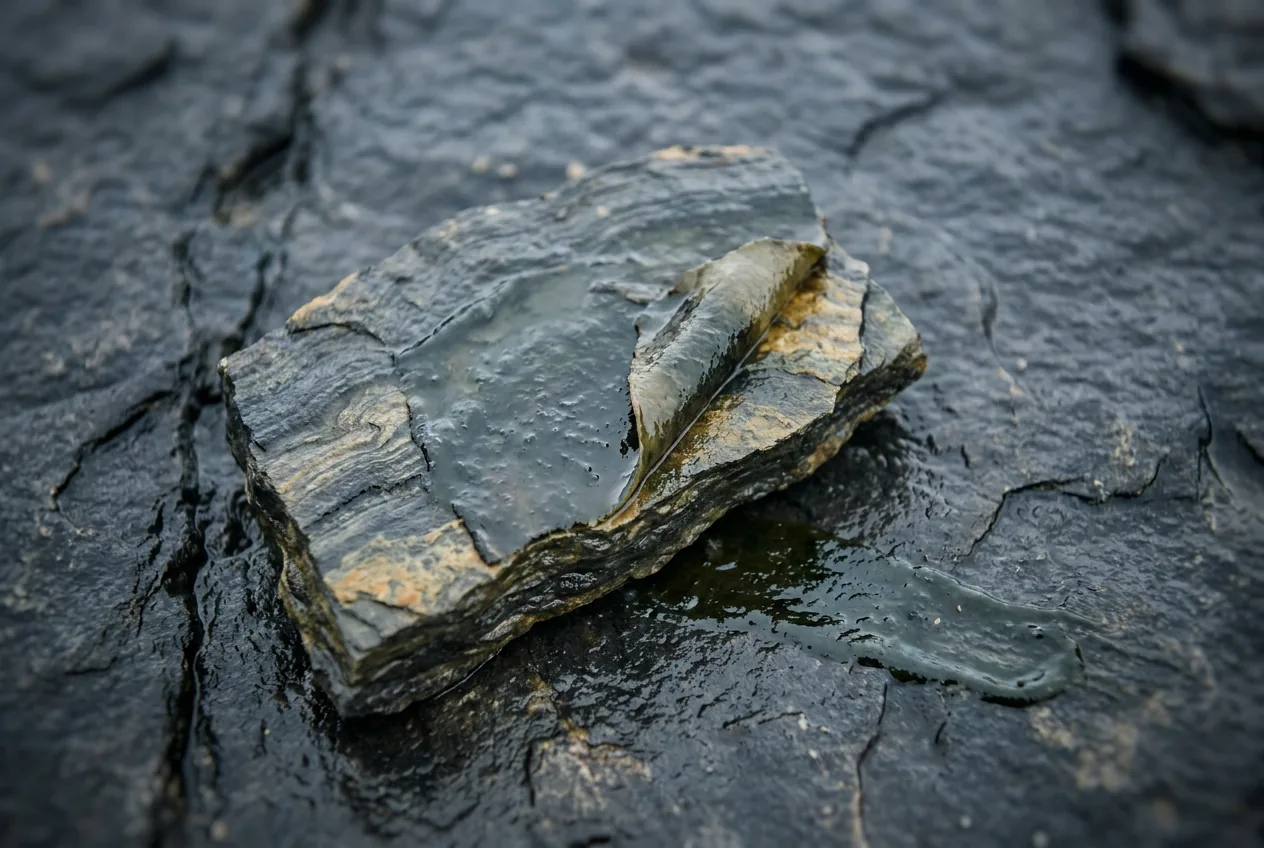
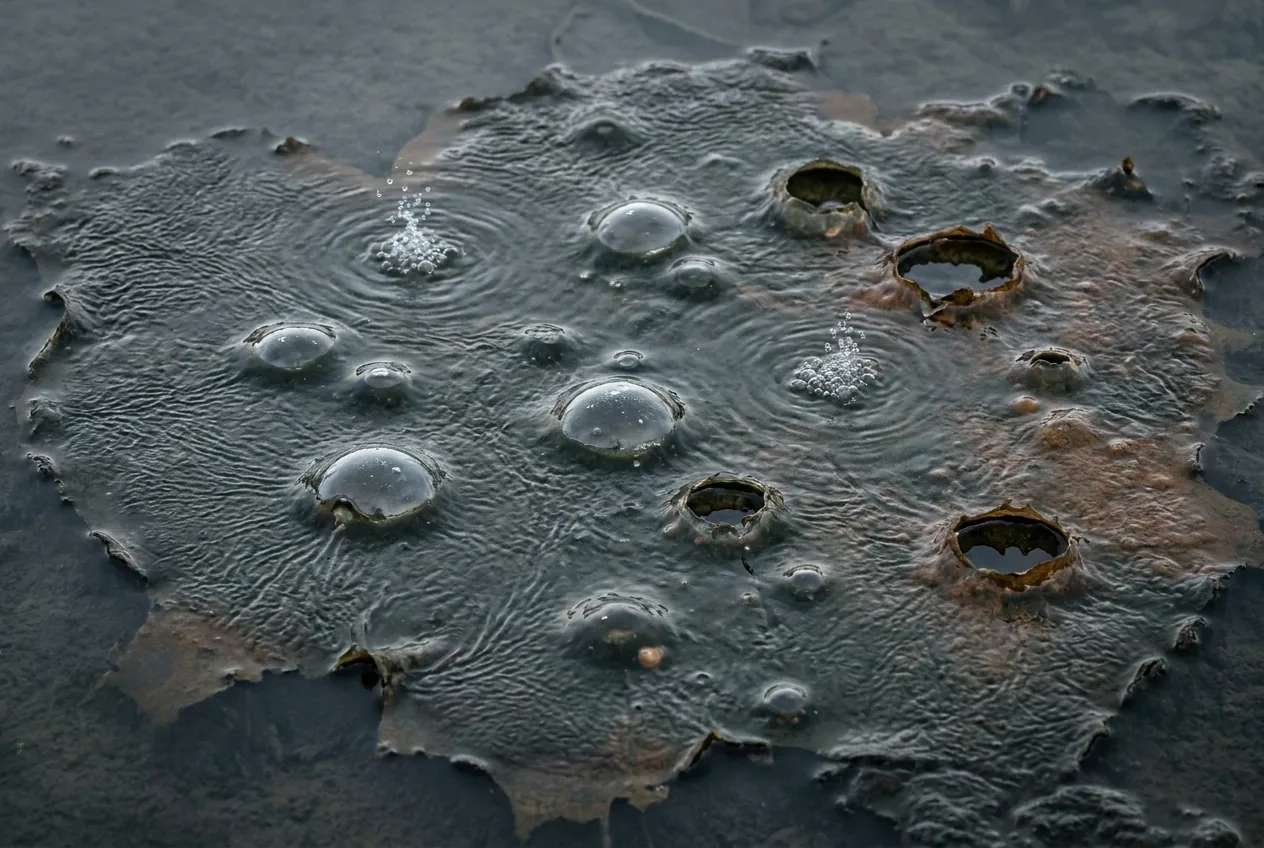
First five menu images, with two prompts rewritten to fix anatomy
Same lesson as the lycopsids, twice over: banning the wrong answer does not
produce the right one, describing the geometry does.

Ediacaran took two attempts. Dickinsonia kept coming back as a scallop, ribs
radiating from a central point inside a round shell, because the brief said
'parallel ridges off a central line' without saying the line is LONG. Rewritten
to specify a narrow oval two to three times longer than wide, a single groove
running the full length, ribs crossing it like the rungs of a ladder, plus an
explicit 'the ribs must NOT radiate outward from one central point'. The frond
beside it was my error rather than the model's: 'a feather made of feathers' is
anatomically defensible and reads unmistakably as a fern, which is 150 million
years early. Dropped it for a second Dickinsonia at a different size.

Archean took three. The bacterial mat, the entire subject, was reading as wet
sheen on rock. Making it fill the frame fixed that but produced a lifted flap
that looked like a stranded animal. The final version is a flat sheet inflated
from below by its own gas: bubbles domed and taut, craters where they have burst
with the film curled back, and two vents actively streaming off. That gas is
methane from these same organisms, which is what makes the orange haze in the
hero image on the same page.

Hadean stays a caption with a picture attached, deliberately. No arrangement of
rock and water says 'nothing to eat' unaided, and it is the opening note of a
[…]

diff --git a/scene_prompts.py b/scene_prompts.py
@@ -112,16 +112,27 @@ edges. Not one organic object anywhere in frame.""",
           "no fruit, no moss, no algae, no insects, no wood, no food of any kind"),
 
 "archean": dict(
-    cap="Bacterial mat, scraped from a stromatolite. Technically organic. Not food.",
+    cap="Bacterial mat, peeled off a stromatolite. Technically organic. Not food.",
     scene="""
-THE ONLY ORGANIC MATTER ON THE PLANET, AND IT IS NOT FOOD. A broken slab of \
-stromatolite lying on wet dark rock: a dense stack of fine mineral laminations \
-in cross-section, like the rings of a felled tree turned on its side. Across its \
-upper surface, a thin slimy film of blackish-green bacterial mat, glistening, \
-peeling at one edge like wet paper. A smear of the same film on the rock beside \
-it.""",
-    never="no plants, no leaves, no seaweed, no shells, no fish, no meat, no bones, no seeds, "
-          "no fruit, no insects, no wood, no fungi, no mushrooms"),
+THE SUBJECT IS A FLAT WIDE SHEET OF SLIMY BACTERIAL MAT, filling the whole frame \
+edge to edge like a skin stretched over shallow water. Blackish-green shading to \
+olive and rust, glistening wet, the surface finely wrinkled and creased all over \
+like the skin on cooling milk. It lies FLAT. There is no single lump, no central \
+mass, no lifted or folded-over flap, and nothing in it should resemble an animal \
+or a body.
+
+THE GAS IS THE DETAIL THAT MATTERS. The mat is being inflated from below by gas \
+the bacteria are producing. Across the sheet: some bubbles still trapped and \
+domed, stretching the film taut and shiny; others already burst, leaving ragged \
+open craters with the torn film curled back around the rim; and at two or three \
+of them, gas actively escaping — a fine stream of small bubbles breaking the \
+water surface, with faint ripples spreading out from the vent.
+
+Ragged torn edges to the sheet. It should look organic, dense, faintly repellent \
+and completely inedible.""",
+    never="no plants, no leaves, no seaweed, no kelp, no shells, no fish, no meat, no bones, "
+          "no seeds, no fruit, no insects, no wood, no fungi, no mushrooms, no lichen, "
+          "no bare dry rock filling the frame"),
 
 "proterozoic": dict(
     cap="Ice, meltwater and stone. The plate stays empty for another 1.9 billion years.",
@@ -134,19 +145,33 @@ colour, no organic matter, nothing living or dead.""",
           "no seeds, no seaweed, no penguins, no food of any kind"),
 
 "ediacaran": dict(
-    cap="A Dickinsonia and a torn frond. Soft, boneless, and of entirely unknown food value.",
+    cap="Two Dickinsonia. Soft, boneless, and of entirely unknown food value.",
     scene="""
-THE FIRST LARGE ORGANISMS, AND NOBODY KNOWS IF THEY ARE EDIBLE. Lying on wet \
-grey-green sediment: one flat oval DICKINSONIA body, soft and boneless, thinner \
-than a coin, divided into many dozens of fine parallel raised ridges running at a \
-slight angle off a central line, the ridges on one side offset against the other \
-— like a quilted air mattress or a giant fingerprint. Beside it, a torn fragment \
-of CHARNIA frond: repeated identical branch units along a central axis, each \
-subdivided into smaller identical branchlets, a feather made of feathers, with no \
-midrib and no veins. Both are limp, wet and translucent at the edges.""",
-    never="no shells, no scallops, no clams, no hinges, no radiating fan ribs, no leaf veins, "
-          "no midribs, no fish, no crabs, no prawns, no bones, no eyes, no legs, no mouths, "
-          "no seaweed, no plants"),
+THE FIRST LARGE ORGANISMS, AND NOBODY KNOWS IF THEY ARE EDIBLE. Two DICKINSONIA \
+bodies of different sizes lying flat on wet grey-green sediment, one about twice \
+the length of the other.
+
+CRITICAL SHAPE — GET THIS RIGHT: each body is a LONG NARROW OVAL, two to three \
+times longer than it is wide, rounded at both ends with one end slightly \
+narrower, like the outline of a shoe sole or a flattened leech. Running the FULL \
+LENGTH of the body, from one end to the other, is a single straight central \
+groove. Off that long groove, many dozens of fine soft ribs run sideways to the \
+outer margin, and because the groove is a long line rather than a point, these \
+ribs sit NEARLY PARALLEL to one another along the whole middle section of the \
+body, like the rungs of a ladder or the segments of a woodlouse. The ribs on one \
+side are offset half a step against those on the other.
+
+IT IS NOT A FAN AND NOT A SHELL. The ribs must NOT radiate outward from one \
+central point. There is no hinge, no valve, no hard rim, no scallop or cockle \
+outline, and nothing rigid anywhere.
+
+Both bodies are limp, soft, boneless, thinner than a coin, wet, and translucent \
+at the edges where they meet the sediment. The sediment around them is a \
+wrinkled elephant-skin microbial mat with faint drag traces.""",
+    never="no shells, no scallops, no cockles, no clams, no oysters, no hinges, no valves, "
+          "no fan shape, no ribs radiating from a central point, no ferns, no fern fronds, "
+          "no leaves, no leaf veins, no plants, no seaweed, no fish, no crabs, no prawns, "
+          "no bones, no eyes, no legs, no mouths, no jellyfish"),
 
 "cambrian": dict(
     cap="Trilobites and brachiopods. Raw, because there is nothing on Earth to burn.",
